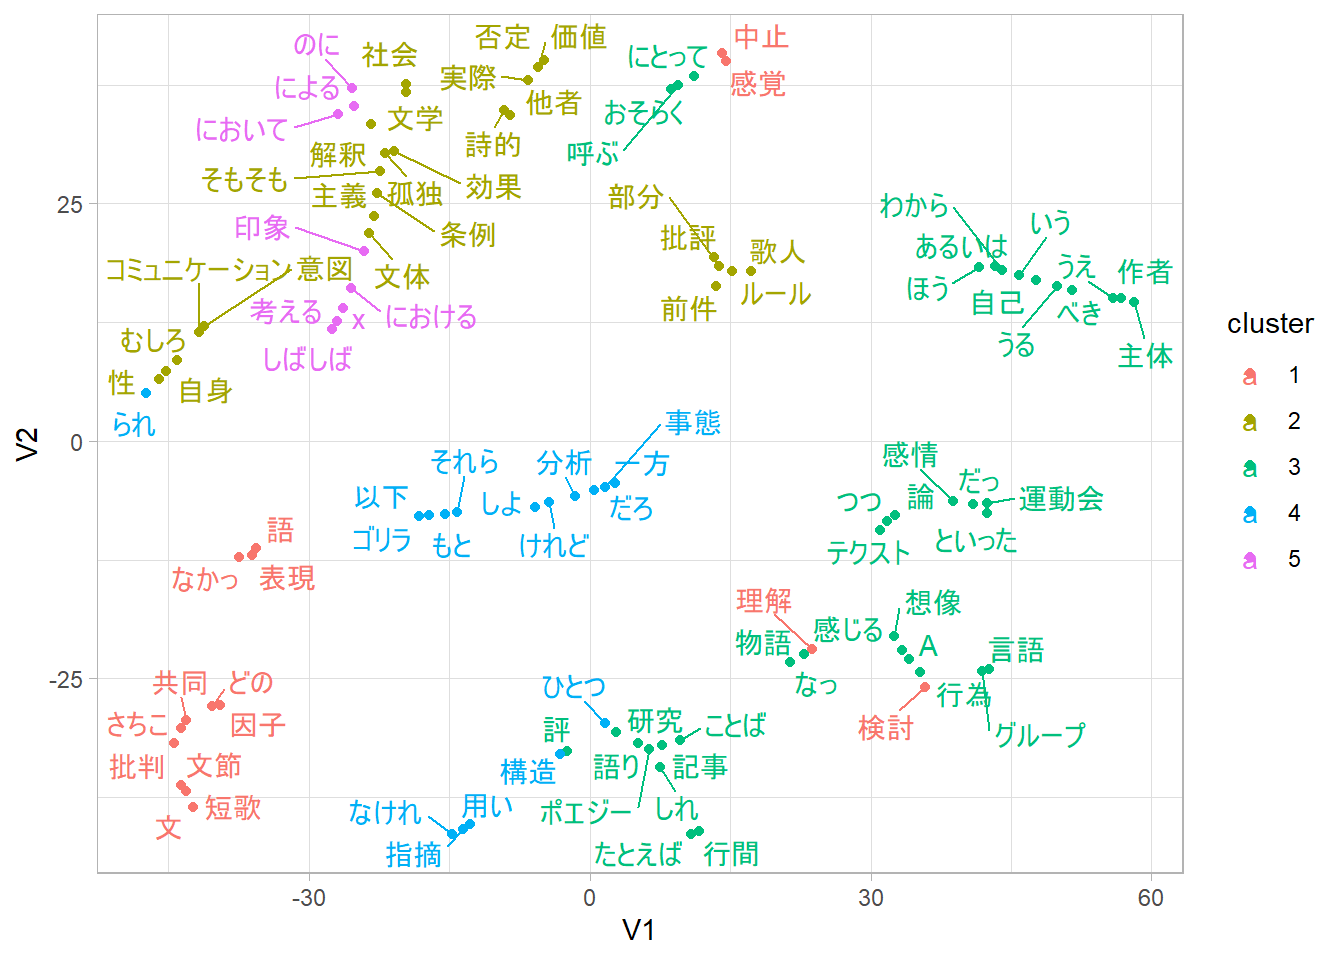
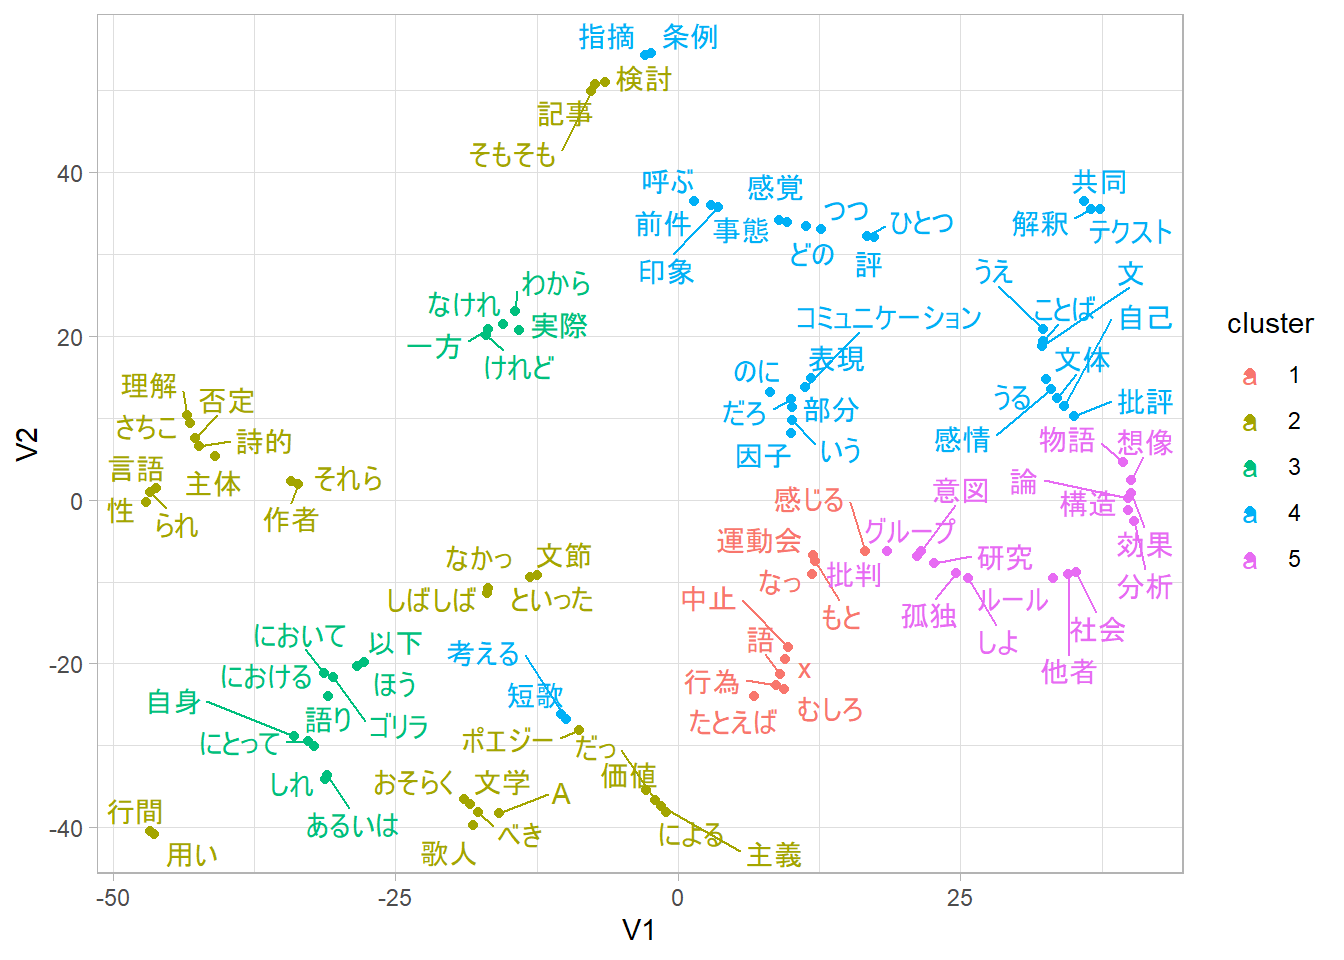
update

diff --git a/content/posts/shinabitanori-google-docs.html b/content/posts/shinabitanori-google-docs.html
@@ -2,7 +2,7 @@
 title: Rによるテキスト解析
 author: paithiov909
 date: '2020-07-11'
-lastmod: "2020-08-29"
+lastmod: "2020-09-24"
 slug: shinabitanori-google-docs
 categories: []
 tags:
@@ -17,7 +17,7 @@ description: 'Rでテキストマイニング'
 <h2>Googleドキュメントの読み込み</h2>
 <p>これまで自分が書いてきた文章について、テキスト解析をしてみます。ここで分析している文章はQrunchにあるブログで読むことができます。</p>
 <blockquote>
-<p><a href="https://shinabitanori.qrunch.io/">あきる野市立希望的観測所</a></p>
+<p><a href="https://note.com/shinabitanori">さちこ｜note</a></p>
 </blockquote>
 <p>これまでに書いた文章はいくつかの場所にバックアップを取っていて、Googleドキュメントにもバックアップがあります。今回はそれらを{googledrive}で取得し、{readtext}で読み込みます。</p>
 <p><code>googledrive::drive_download</code>はディレクトリごとダウンロードしたりはできないようなので、特定のディレクトリにあるファイルのリスト（dribble）を<code>dplyr::rowwise</code>で行ごとに渡して<code>dplyr::do</code>のなかでダウンロードしています（<code>dplyr::rowwise() %&gt;% dplyr::do()</code>という流れで処理するやり方は手元にあるdplyr v0.8.0の時点ですでにquestioningなので、将来的に使えなくなる可能性があります）。</p>
@@ -29,6 +29,7 @@ description: 'Rでテキストマイニング'
     overwrite = TRUE,
     verbose = FALSE
   ))
+#&gt; Auto-refreshing stale OAuth token.
 shinabitanori &lt;- googledrive::drive_ls(&quot;Documents/shinabitanori/&quot;) %&gt;%
   dplyr::rowwise() %&gt;%
   dplyr::do(googledrive::drive_download(
@@ -49,7 +50,7 @@ df[1, ]
 #&gt; # Rowwise: 
 #&gt;   rowid doc      name       local_path                                          
 #&gt;   &lt;int&gt; &lt;chr&gt;    &lt;chr&gt;      &lt;chr&gt;                                               
-#&gt; 1     1 aquarium nfe7f3c14~ &quot;C:\\Users\\user\\AppData\\Local\\Temp\\RtmpYNabMc/~</code></pre>
+#&gt; 1     1 aquarium nfe7f3c14~ &quot;C:\\Users\\user\\AppData\\Local\\Temp\\Rtmpc17q55/~</code></pre>
 </div>
 <div id="形態素解析" class="section level2">
 <h2>形態素解析</h2>
@@ -216,79 +217,79 @@ m$phi %&gt;%
 </thead>
 <tbody>
 <tr class="odd">
+<td align="left">感情</td>
+<td align="left">因子</td>
 <td align="left">ゴリラ</td>
+</tr>
+<tr class="even">
+<td align="left">ポエジー</td>
+<td align="left">価値</td>
 <td align="left">グループ</td>
+</tr>
+<tr class="odd">
+<td align="left">詩的</td>
+<td align="left">物語</td>
+<td align="left">条例</td>
+</tr>
+<tr class="even">
+<td align="left">行間</td>
+<td align="left">語り</td>
 <td align="left">x</td>
 </tr>
-<tr class="even">
-<td align="left">因子</td>
-<td align="left">条例</td>
-<td align="left">テクスト</td>
-</tr>
 <tr class="odd">
-<td align="left">価値</td>
-<td align="left">ポエジー</td>
-<td align="left">感情</td>
-</tr>
-<tr class="even">
-<td align="left">物語</td>
-<td align="left">文節</td>
-<td align="left">運動会</td>
-</tr>
-<tr class="odd">
-<td align="left">語り</td>
-<td align="left">批評</td>
-<td align="left">中止</td>
-</tr>
-<tr class="even">
-<td align="left">孤独</td>
-<td align="left">詩的</td>
-<td align="left">前件</td>
-</tr>
-<tr class="odd">
+<td align="left">研究</td>
 <td align="left">対</td>
-<td align="left">行間</td>
 <td align="left">文</td>
 </tr>
 <tr class="even">
 <td align="left">さよなら</td>
-<td align="left">研究</td>
-<td align="left">花水木</td>
-</tr>
-<tr class="odd">
-<td align="left">エンゲージメント</td>
-<td align="left">主義</td>
-<td align="left">天気</td>
-</tr>
-<tr class="even">
-<td align="left">文体</td>
-<td align="left">効果</td>
-<td align="left">ルール</td>
-</tr>
-<tr class="odd">
-<td align="left">共同</td>
-<td align="left">v</td>
-<td align="left">並列</td>
-</tr>
-<tr class="even">
-<td align="left">自己</td>
-<td align="left">評</td>
-<td align="left">告げ</td>
-</tr>
-<tr class="odd">
-<td align="left">役割</td>
 <td align="left">加藤</td>
-<td align="left">q</td>
+<td align="left">文節</td>
+</tr>
+<tr class="odd">
+<td align="left">効果</td>
+<td align="left">エンゲージメント</td>
+<td align="left">運動会</td>
+</tr>
+<tr class="even">
+<td align="left">演技</td>
+<td align="left">自己</td>
+<td align="left">中止</td>
+</tr>
+<tr class="odd">
+<td align="left">テクスト</td>
+<td align="left">役割</td>
+<td align="left">批評</td>
 </tr>
 <tr class="even">
 <td align="left">あかね</td>
 <td align="left">治郎</td>
-<td align="left">含意</td>
+<td align="left">前件</td>
 </tr>
 <tr class="odd">
+<td align="left">文体</td>
+<td align="left">共同</td>
+<td align="left">花水木</td>
+</tr>
+<tr class="even">
+<td align="left">泥</td>
+<td align="left">言説</td>
+<td align="left">ルール</td>
+</tr>
+<tr class="odd">
+<td align="left">船</td>
+<td align="left">倫理</td>
+<td align="left">テクスト</td>
+</tr>
+<tr class="even">
 <td align="left">笑う</td>
-<td align="left">文書</td>
-<td align="left">事態</td>
+<td align="left">真理</td>
+<td align="left">天気</td>
+</tr>
+<tr class="odd">
+<td align="left">リズム</td>
+<td align="left">呼びかけ</td>
+<td align="left">解釈</td>
 </tr>
 </tbody>
 </table>
@@ -344,16 +345,16 @@ wv &lt;- glove$fit_transform(
 ) %&gt;%
   as.data.frame(stringsAsFactors = FALSE) %&gt;%
   tibble::as_tibble(.name_repair = &quot;minimal&quot;, rownames = NA)
-#&gt; INFO  [11:08:48.892] epoch 1, loss 0.1955 
-#&gt; INFO  [11:08:49.017] epoch 2, loss 0.0987 
-#&gt; INFO  [11:08:49.127] epoch 3, loss 0.0785 
-#&gt; INFO  [11:08:49.220] epoch 4, loss 0.0663 
-#&gt; INFO  [11:08:49.314] epoch 5, loss 0.0576 
-#&gt; INFO  [11:08:49.392] epoch 6, loss 0.0508 
-#&gt; INFO  [11:08:49.486] epoch 7, loss 0.0455 
-#&gt; INFO  [11:08:49.580] epoch 8, loss 0.0411 
-#&gt; INFO  [11:08:49.658] epoch 9, loss 0.0375 
-#&gt; INFO  [11:08:49.720] epoch 10, loss 0.0344</code></pre>
+#&gt; INFO  [17:28:47.842] epoch 1, loss 0.1997 
+#&gt; INFO  [17:28:48.045] epoch 2, loss 0.0987 
+#&gt; INFO  [17:28:48.170] epoch 3, loss 0.0781 
+#&gt; INFO  [17:28:48.233] epoch 4, loss 0.0659 
+#&gt; INFO  [17:28:48.311] epoch 5, loss 0.0571 
+#&gt; INFO  [17:28:48.389] epoch 6, loss 0.0504 
+#&gt; INFO  [17:28:48.483] epoch 7, loss 0.0451 
+#&gt; INFO  [17:28:48.561] epoch 8, loss 0.0408 
+#&gt; INFO  [17:28:48.639] epoch 9, loss 0.0372 
+#&gt; INFO  [17:28:48.717] epoch 10, loss 0.0343</code></pre>
 <p>{Rtsne}で次元を減らして可視化します。</p>
 <pre class="r"><code>getRtsneAsTbl &lt;- function(tbl, dim = 2, perp = 30) {
   tsn &lt;- tbl %&gt;% Rtsne::Rtsne(dim = dim, perplexity = perp)
@@ -400,19 +401,19 @@ vec %&gt;%
 #&gt;  collate  Japanese_Japan.932          
 #&gt;  ctype    Japanese_Japan.932          
 #&gt;  tz       Asia/Tokyo                  
-#&gt;  date     2020-08-29                  
+#&gt;  date     2020-09-24                  
 #&gt; 
 #&gt; - Packages -------------------------------------------------------------------
 #&gt;  ! package             * version  date       lib source        
 #&gt;    abind                 1.4-5    2016-07-21 [1] CRAN (R 4.0.0)
 #&gt;    askpass               1.1      2019-01-13 [1] CRAN (R 4.0.2)
 #&gt;    assertthat            0.2.1    2019-03-21 [1] CRAN (R 4.0.2)
-#&gt;    backports             1.1.8    2020-06-17 [1] CRAN (R 4.0.2)
+#&gt;    backports             1.1.10   2020-09-15 [1] CRAN (R 4.0.2)
 #&gt;    blob                  1.2.1    2020-01-20 [1] CRAN (R 4.0.2)
 #&gt;    blogdown              0.20     2020-06-23 [1] CRAN (R 4.0.2)
 #&gt;    bookdown              0.20     2020-06-23 [1] CRAN (R 4.0.2)
 #&gt;    broom                 0.7.0    2020-07-09 [1] CRAN (R 4.0.2)
-#&gt;    callr                 3.4.3    2020-03-28 [1] CRAN (R 4.0.2)
+#&gt;    callr                 3.4.4    2020-09-07 [1] CRAN (R 4.0.2)
 #&gt;    car                   3.0-9    2020-08-11 [1] CRAN (R 4.0.2)
 #&gt;    carData               3.0-4    2020-05-22 [1] CRAN (R 4.0.0)
 #&gt;    cellranger            1.1.0    2016-07-27 [1] CRAN (R 4.0.2)
@@ -426,9 +427,9 @@ vec %&gt;%
 #&gt;    DBI                   1.1.0    2019-12-15 [1] CRAN (R 4.0.2)
 #&gt;    dbplyr                1.4.4    2020-05-27 [1] CRAN (R 4.0.2)
 #&gt;    desc                  1.2.0    2018-05-01 [1] CRAN (R 4.0.2)
-#&gt;    devtools              2.3.1    2020-07-21 [1] CRAN (R 4.0.2)
+#&gt;    devtools              2.3.2    2020-09-18 [1] CRAN (R 4.0.2)
 #&gt;    digest                0.6.25   2020-02-23 [1] CRAN (R 4.0.2)
-#&gt;    dplyr               * 1.0.1    2020-07-31 [1] CRAN (R 4.0.2)
+#&gt;    dplyr               * 1.0.2    2020-08-18 [1] CRAN (R 4.0.2)
 #&gt;    ellipsis              0.3.1    2020-05-15 [1] CRAN (R 4.0.2)
 #&gt;    evaluate              0.14     2019-05-28 [1] CRAN (R 4.0.2)
 #&gt;    fansi                 0.4.1    2020-01-08 [1] CRAN (R 4.0.2)
@@ -440,12 +441,12 @@ vec %&gt;%
 #&gt;    fs                    1.5.0    2020-07-31 [1] CRAN (R 4.0.2)
 #&gt;    gargle                0.5.0    2020-05-06 [1] CRAN (R 4.0.2)
 #&gt;    generics              0.0.2    2018-11-29 [1] CRAN (R 4.0.2)
-#&gt;    ggdendro              0.1.21   2020-08-11 [1] CRAN (R 4.0.2)
+#&gt;    ggdendro              0.1.22   2020-09-13 [1] CRAN (R 4.0.2)
 #&gt;    ggplot2             * 3.3.2    2020-06-19 [1] CRAN (R 4.0.2)
 #&gt;    ggpubr                0.4.0    2020-06-27 [1] CRAN (R 4.0.2)
 #&gt;    ggrepel               0.8.2    2020-03-08 [1] CRAN (R 4.0.2)
 #&gt;    ggsignif              0.6.0    2019-08-08 [1] CRAN (R 4.0.2)
-#&gt;    glue                  1.4.1    2020-05-13 [1] CRAN (R 4.0.2)
+#&gt;    glue                  1.4.2    2020-08-27 [1] CRAN (R 4.0.2)
 #&gt;    googledrive           1.0.1    2020-05-05 [1] CRAN (R 4.0.2)
 #&gt;    gridExtra             2.3      2017-09-09 [1] CRAN (R 4.0.2)
 #&gt;    gtable                0.3.0    2019-03-25 [1] CRAN (R 4.0.2)
@@ -455,9 +456,9 @@ vec %&gt;%
 #&gt;    htmltools             0.5.0    2020-06-16 [1] CRAN (R 4.0.2)
 #&gt;    httpuv                1.5.4    2020-06-06 [1] CRAN (R 4.0.2)
 #&gt;    httr                  1.4.2    2020-07-20 [1] CRAN (R 4.0.2)
-#&gt;    jsonlite              1.7.0    2020-06-25 [1] CRAN (R 4.0.2)
+#&gt;    jsonlite              1.7.1    2020-09-07 [1] CRAN (R 4.0.2)
 #&gt;    kernlab               0.9-29   2019-11-12 [1] CRAN (R 4.0.0)
-#&gt;    knitr                 1.29     2020-06-23 [1] CRAN (R 4.0.2)
+#&gt;    knitr                 1.30     2020-09-22 [1] CRAN (R 4.0.2)
 #&gt;    labeling              0.3      2014-08-23 [1] CRAN (R 4.0.0)
 #&gt;    later                 1.1.0.1  2020-06-05 [1] CRAN (R 4.0.2)
 #&gt;    lattice               0.20-41  2020-04-02 [2] CRAN (R 4.0.2)
@@ -474,15 +475,15 @@ vec %&gt;%
 #&gt;    modelr                0.1.8    2020-05-19 [1] CRAN (R 4.0.2)
 #&gt;    munsell               0.5.0    2018-06-12 [1] CRAN (R 4.0.2)
 #&gt;    network               1.16.0   2019-12-01 [1] CRAN (R 4.0.2)
-#&gt;    openssl               1.4.2    2020-06-27 [1] CRAN (R 4.0.2)
-#&gt;    openxlsx              4.1.5    2020-05-06 [1] CRAN (R 4.0.2)
+#&gt;    openssl               1.4.3    2020-09-18 [1] CRAN (R 4.0.2)
+#&gt;    openxlsx              4.2.2    2020-09-17 [1] CRAN (R 4.0.2)
 #&gt;    pillar                1.4.6    2020-07-10 [1] CRAN (R 4.0.2)
 #&gt;    pkgbuild              1.1.0    2020-07-13 [1] CRAN (R 4.0.2)
 #&gt;    pkgconfig             2.0.3    2019-09-22 [1] CRAN (R 4.0.2)
 #&gt;    pkgload               1.1.0    2020-05-29 [1] CRAN (R 4.0.2)
 #&gt;    plyr                  1.8.6    2020-03-03 [1] CRAN (R 4.0.2)
 #&gt;    prettyunits           1.1.1    2020-01-24 [1] CRAN (R 4.0.2)
-#&gt;    processx              3.4.3    2020-07-05 [1] CRAN (R 4.0.2)
+#&gt;    processx              3.4.4    2020-09-03 [1] CRAN (R 4.0.2)
 #&gt;    promises              1.1.1    2020-06-09 [1] CRAN (R 4.0.2)
 #&gt;    proxy                 0.4-24   2020-04-25 [1] CRAN (R 4.0.2)
 #&gt;    proxyC                0.1.5    2019-07-21 [1] CRAN (R 4.0.2)
@@ -492,15 +493,15 @@ vec %&gt;%
 #&gt;    quanteda              2.1.1    2020-07-27 [1] CRAN (R 4.0.2)
 #&gt;    quanteda.textmodels   0.9.1    2020-03-13 [1] CRAN (R 4.0.2)
 #&gt;    R.cache               0.14.0   2019-12-06 [1] CRAN (R 4.0.2)
-#&gt;    R.methodsS3           1.8.0    2020-02-14 [1] CRAN (R 4.0.0)
-#&gt;    R.oo                  1.23.0   2019-11-03 [1] CRAN (R 4.0.0)
-#&gt;    R.utils               2.9.2    2019-12-08 [1] CRAN (R 4.0.2)
+#&gt;    R.methodsS3           1.8.1    2020-08-26 [1] CRAN (R 4.0.2)
+#&gt;    R.oo                  1.24.0   2020-08-26 [1] CRAN (R 4.0.2)
+#&gt;    R.utils               2.10.1   2020-08-26 [1] CRAN (R 4.0.2)
 #&gt;    R6                    2.4.1    2019-11-12 [1] CRAN (R 4.0.2)
 #&gt;    Rcpp                  1.0.5    2020-07-06 [1] CRAN (R 4.0.2)
 #&gt;  D RcppParallel          5.0.2    2020-06-24 [1] CRAN (R 4.0.2)
 #&gt;    RcppProgress          0.4.2    2020-02-06 [1] CRAN (R 4.0.2)
 #&gt;    readr               * 1.3.1    2018-12-21 [1] CRAN (R 4.0.2)
-#&gt;    readtext              0.76     2020-03-04 [1] CRAN (R 4.0.2)
+#&gt;    readtext              0.80     2020-09-22 [1] CRAN (R 4.0.2)
 #&gt;    readxl                1.3.1    2019-03-13 [1] CRAN (R 4.0.2)
 #&gt;    remotes               2.2.0    2020-07-21 [1] CRAN (R 4.0.2)
 #&gt;    reprex                0.3.0    2019-05-16 [1] CRAN (R 4.0.2)
@@ -514,7 +515,7 @@ vec %&gt;%
 #&gt;    rprojroot             1.3-2    2018-01-03 [1] CRAN (R 4.0.2)
 #&gt;    rsparse               0.4.0    2020-04-01 [1] CRAN (R 4.0.2)
 #&gt;    RSpectra              0.16-0   2019-12-01 [1] CRAN (R 4.0.2)
-#&gt;    RSSL                  0.9.1    2020-02-04 [1] CRAN (R 4.0.2)
+#&gt;    RSSL                  0.9.2    2020-09-12 [1] CRAN (R 4.0.2)
 #&gt;    rstatix               0.6.0    2020-06-18 [1] CRAN (R 4.0.2)
 #&gt;    rstudioapi            0.11     2020-02-07 [1] CRAN (R 4.0.2)
 #&gt;    Rtsne                 0.15     2018-11-10 [1] CRAN (R 4.0.2)
@@ -527,7 +528,7 @@ vec %&gt;%
 #&gt;    SparseM               1.78     2019-12-13 [1] CRAN (R 4.0.0)
 #&gt;    statnet.common        4.3.0    2019-06-02 [1] CRAN (R 4.0.2)
 #&gt;    stopwords             2.0      2020-04-14 [1] CRAN (R 4.0.2)
-#&gt;    stringi               1.4.6    2020-02-17 [1] CRAN (R 4.0.0)
+#&gt;    stringi               1.5.3    2020-09-09 [1] CRAN (R 4.0.2)
 #&gt;    stringr             * 1.4.0    2019-02-10 [1] CRAN (R 4.0.2)
 #&gt;    styler                1.3.2    2020-02-23 [1] CRAN (R 4.0.2)
 #&gt;    tangela               0.0.3    2020-07-26 [1] local         
@@ -535,19 +536,19 @@ vec %&gt;%
 #&gt;    text2vec              0.6      2020-02-18 [1] CRAN (R 4.0.2)
 #&gt;    textmineR             3.0.4    2019-04-18 [1] CRAN (R 4.0.2)
 #&gt;    tibble              * 3.0.3    2020-07-10 [1] CRAN (R 4.0.2)
-#&gt;    tidyr               * 1.1.1    2020-07-31 [1] CRAN (R 4.0.2)
+#&gt;    tidyr               * 1.1.2    2020-08-27 [1] CRAN (R 4.0.2)
 #&gt;    tidyselect            1.1.0    2020-05-11 [1] CRAN (R 4.0.2)
 #&gt;    tidyverse           * 1.3.0    2019-11-21 [1] CRAN (R 4.0.2)
-#&gt;    usethis               1.6.1    2020-04-29 [1] CRAN (R 4.0.2)
+#&gt;    usethis               1.6.3    2020-09-17 [1] CRAN (R 4.0.2)
 #&gt;    utf8                  1.1.4    2018-05-24 [1] CRAN (R 4.0.2)
-#&gt;    vctrs                 0.3.2    2020-07-15 [1] CRAN (R 4.0.2)
+#&gt;    vctrs                 0.3.4    2020-08-29 [1] CRAN (R 4.0.2)
 #&gt;    viridis               0.5.1    2018-03-29 [1] CRAN (R 4.0.2)
 #&gt;    viridisLite           0.3.0    2018-02-01 [1] CRAN (R 4.0.2)
-#&gt;    withr                 2.2.0    2020-04-20 [1] CRAN (R 4.0.2)
-#&gt;    xfun                  0.16     2020-07-24 [1] CRAN (R 4.0.2)
+#&gt;    withr                 2.3.0    2020-09-22 [1] CRAN (R 4.0.2)
+#&gt;    xfun                  0.17     2020-09-09 [1] CRAN (R 4.0.2)
 #&gt;    xml2                  1.3.2    2020-04-23 [1] CRAN (R 4.0.2)
 #&gt;    yaml                  2.2.1    2020-02-01 [1] CRAN (R 4.0.0)
-#&gt;    zip                   2.1.0    2020-08-10 [1] CRAN (R 4.0.2)
+#&gt;    zip                   2.1.1    2020-08-27 [1] CRAN (R 4.0.2)
 #&gt; 
 #&gt; [1] C:/Users/user/Documents/R/win-library/4.0
 #&gt; [2] C:/Program Files/R/R-4.0.2/library

diff --git a/content/articles/about.md b/content/articles/about.md
@@ -20,7 +20,7 @@ description: 'RでRMeCabに依存しないテキストマイニング'
 
 実際のところ、自分でコードを書きながら自然言語処理の真似事をするならPythonのほうが便利なような気もします。テキストを形態素解析する場面だけ見ても、Pythonには[SudachiPy](https://github.com/WorksApplications/SudachiPy)や[janome](https://mocobeta.github.io/janome/)といった選択肢がある一方で、RにはRコンソールからのみで導入が完了する形態素解析の手段が（少なくともCRANには）ありません。
 
-自然言語処理をやる言語としてPythonのほうがメジャーなことにはほかにもいくつかの理由というか経緯があるのでしょうが、Pythonを採用したほうがよいひとつのモチベーションとしては、テキストマイニングして得た特徴量を投入してディープラーニングをしたい場合は事実上Pythonを選択するしかないというのもある気がします。一応、[{keras}](https://keras.rstudio.com/)や[{rTorch}](https://github.com/f0nzie/rTorch)というのもありますが、このあたりのパッケージを使うのはかなり趣味の領域な気がします。
+自然言語処理をやる言語としてPythonのほうがメジャーなことにはほかにもいくつかの理由というか経緯があるのでしょうが、Pythonを採用したほうがよいひとつのモチベーションとしては、テキストマイニングして得た特徴量を投入してディープラーニングをしたい場合は事実上Pythonを選択するしかないというのもある気がします。一応、[{keras}](https://keras.rstudio.com/)や[{torch}](https://github.com/mlverse/torch)というのもありますが、このあたりのパッケージを使うのはかなり趣味の領域な気がします。
 
 ### RにはRMeCabがあった、が……
 
